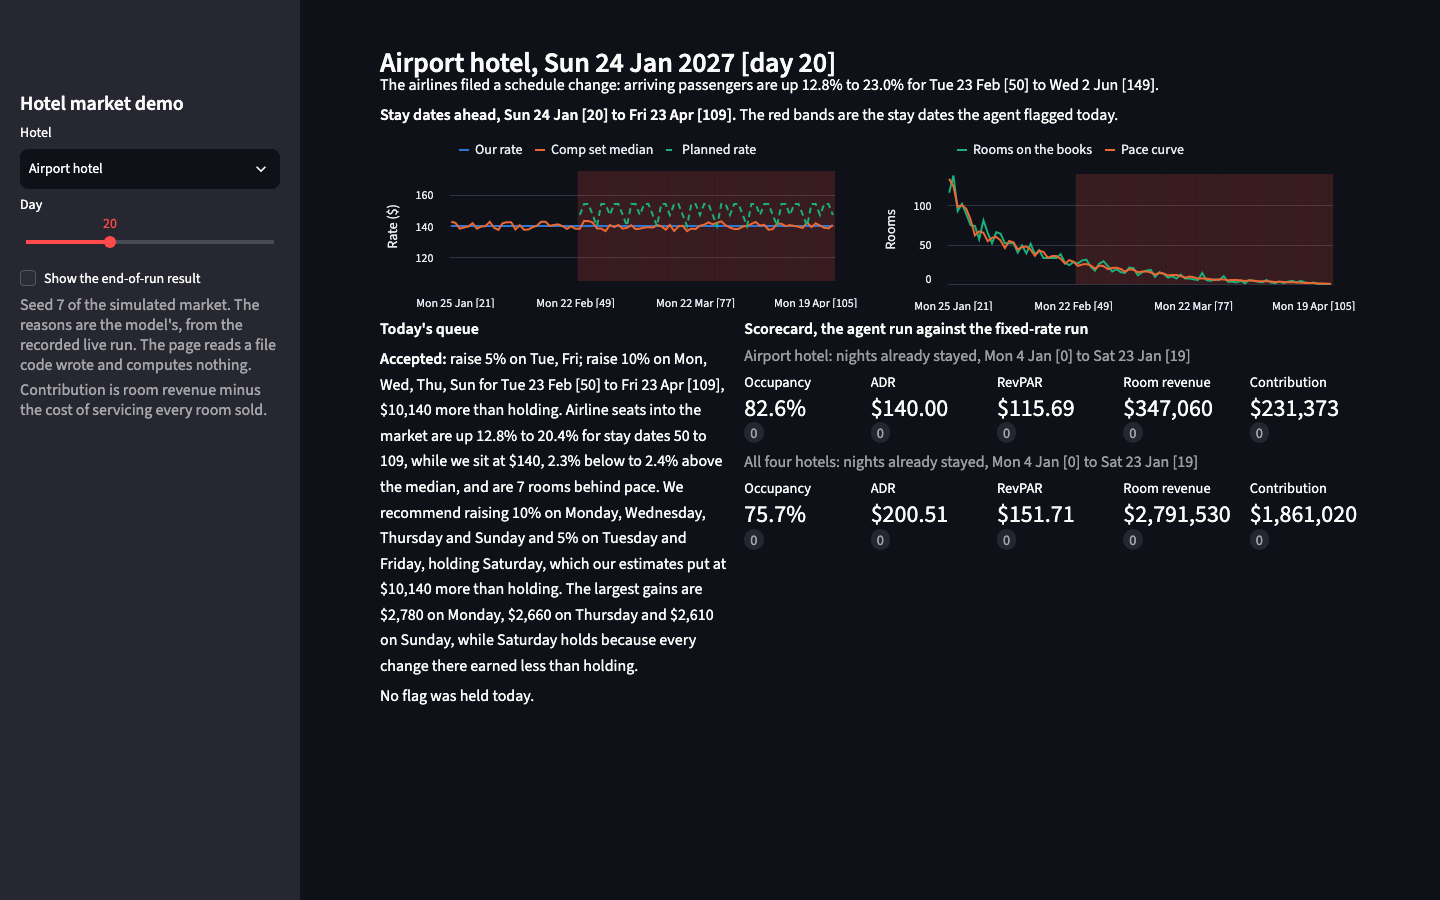
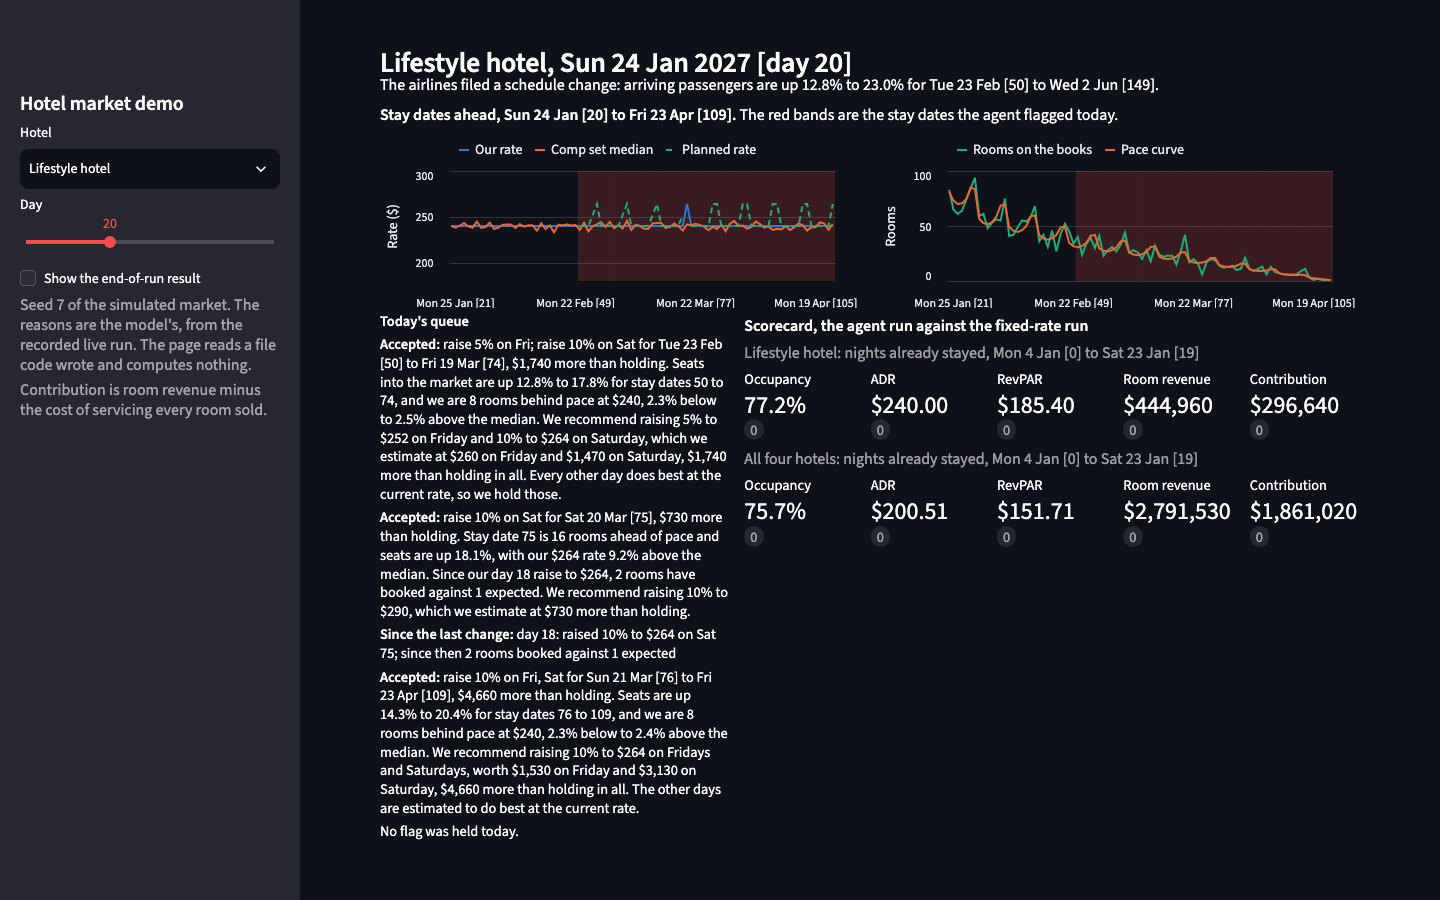
Show the lifestyle hotel's day-20 page in the README
That page holds the filing, the queued plans and the "Since the last
change" line together, which the airport page did not.

diff --git a/README.md b/README.md
@@ -29,9 +29,9 @@ The recorded run covers the shipped market at seed 7 on world v2, and the
 template answers wherever it does not. Every other command is in
 docs/commands.md.
 
-![The demo page: the airport hotel on day 20](docs/images/day20.png)
+![The demo page: the lifestyle hotel on day 20](docs/images/day20.png)
 
-*The airport hotel on day 20, the day the new flights were filed: the news, the stay dates ahead, the plan the agent queued, and the scorecard; the reason under the plan is the model's, recorded in the live run.*
+*The lifestyle hotel on day 20, the day the new flights were filed: the filing in the news line, the three plans the agent queued with the model's recorded reasons, and under the second the "Since the last change" line that reads back its day-18 raise, together on one page.*
 
 ## Results
 
